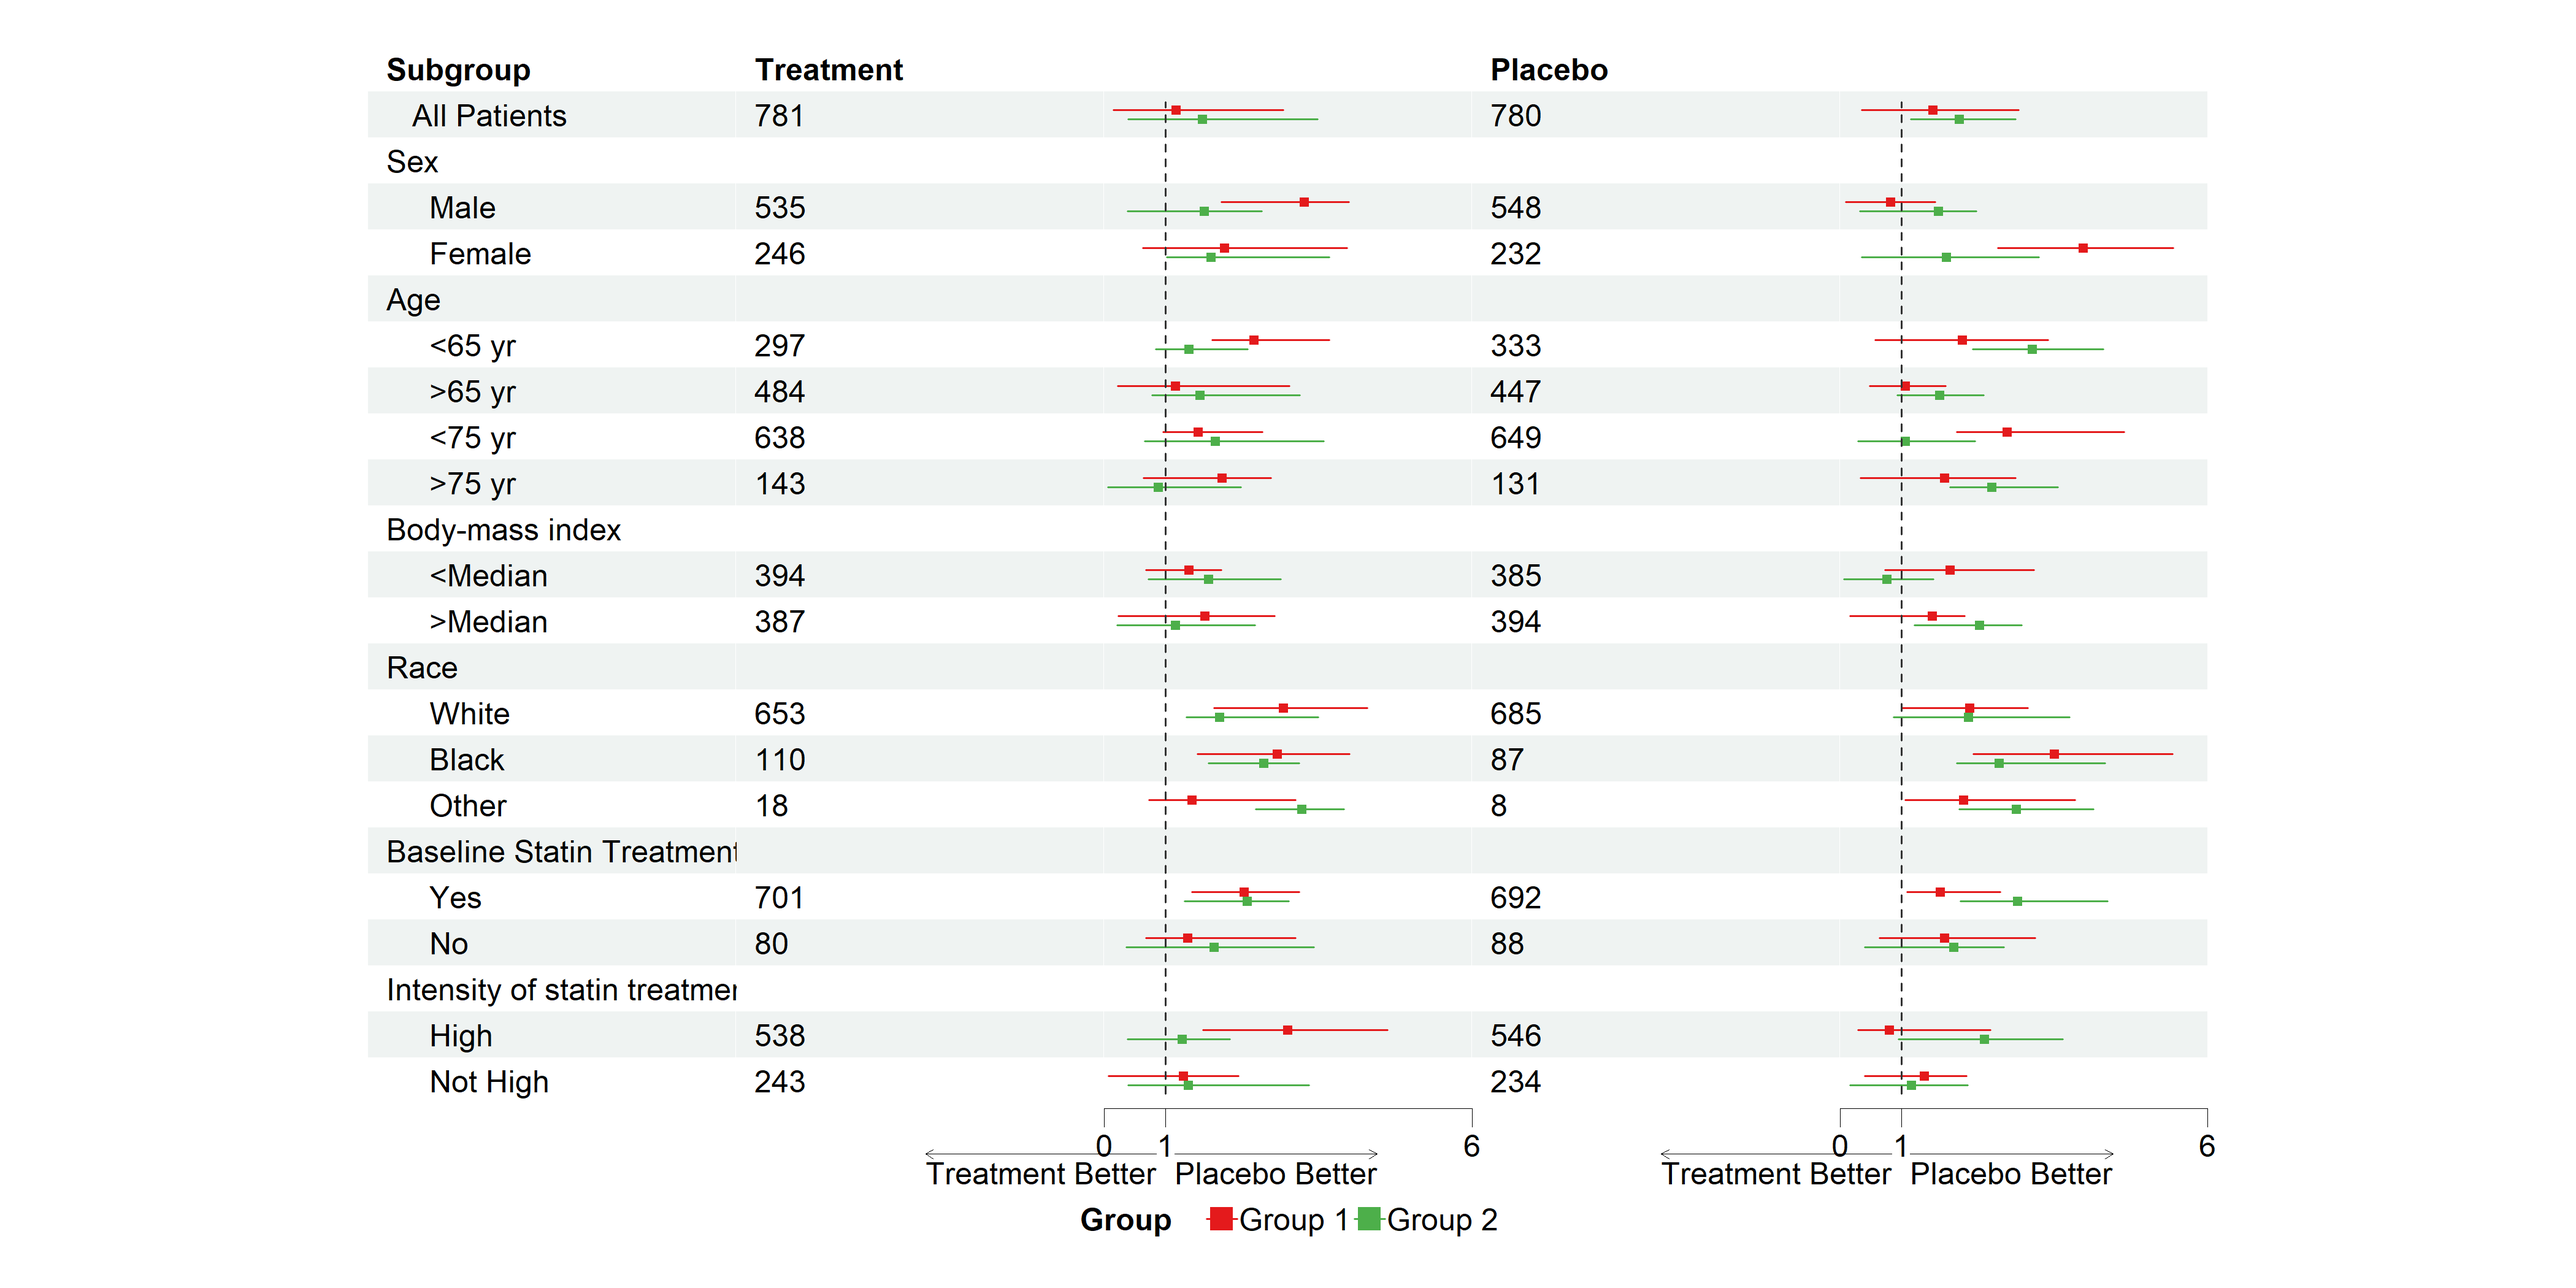
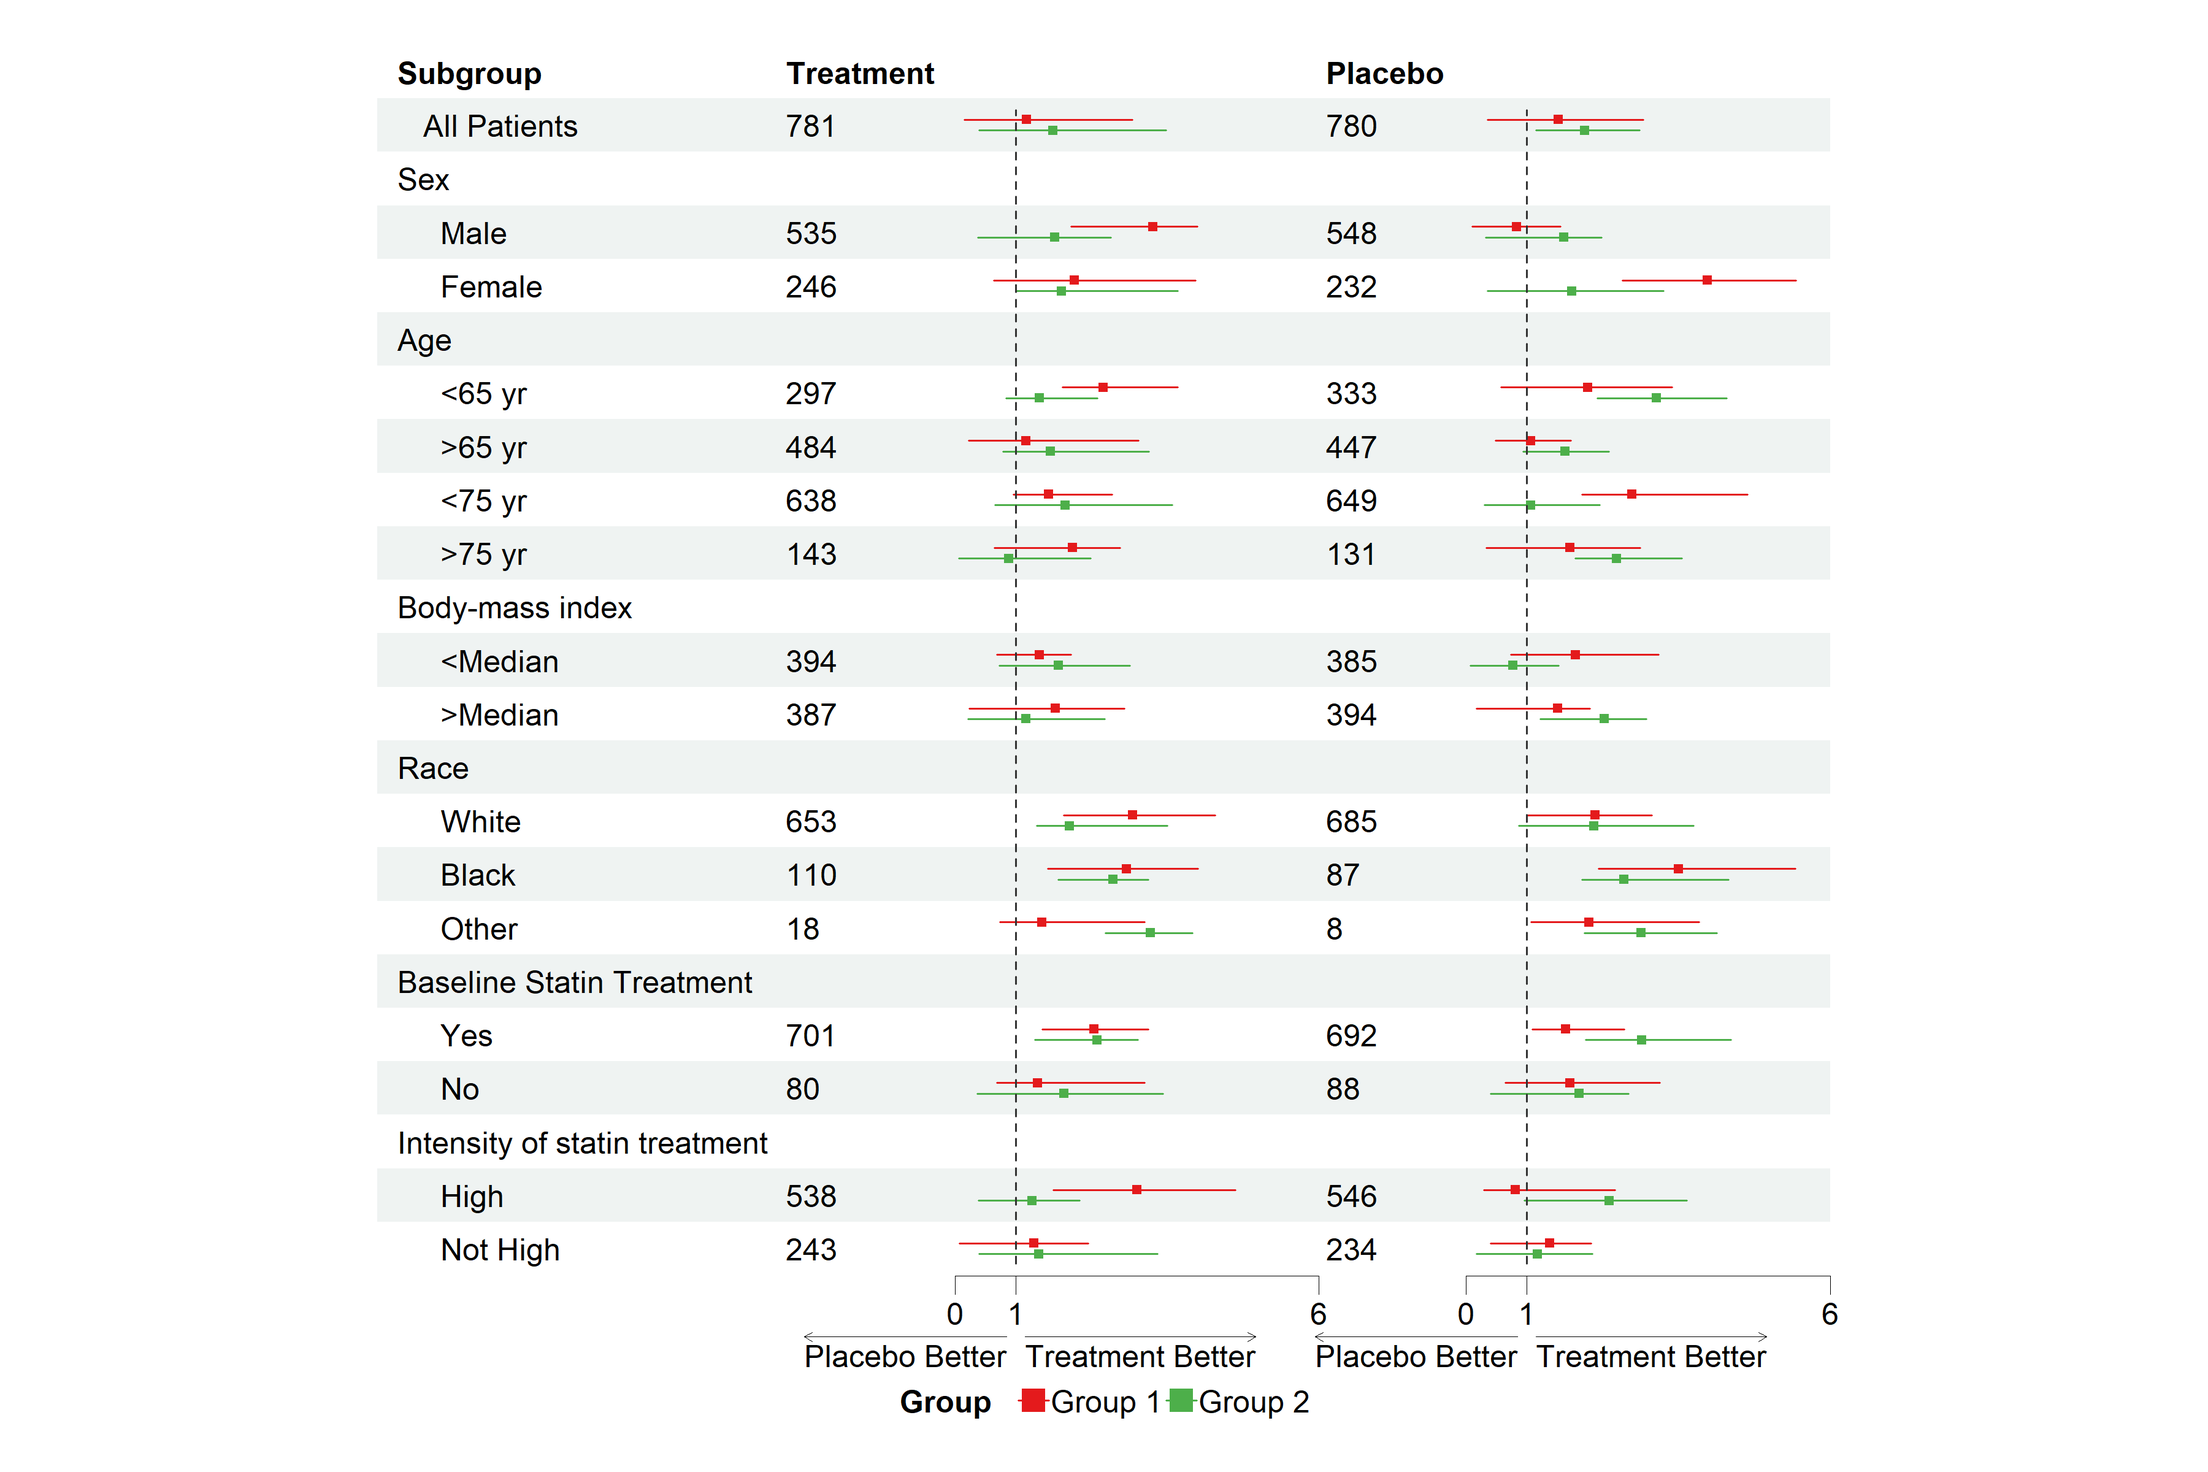
Fix legend and arrow alignment

diff --git a/README.md b/README.md
@@ -40,8 +40,9 @@ dt$Treatment <- ifelse(is.na(dt$Treatment), "", dt$Treatment)
 dt$Placebo <- ifelse(is.na(dt$Placebo), "", dt$Placebo)
 dt$se <- (log(dt$hi) - log(dt$est))/1.96
 
-# Add blank column for the forest plot to display CI
-dt$` ` <- paste(rep(" ", 5), collapse = " ")
+# Add blank column for the forest plot to display CI.
+# Adjust the column width with space. 
+dt$` ` <- paste(rep(" ", 20), collapse = " ")
 
 # Create confidence interval column to display
 dt$`HR (95% CI)` <- ifelse(is.na(dt$se), "",
@@ -59,7 +60,6 @@ p <- forest(dt[,c(1:3, 20:21)],
             sizes = dt$se,
             ci.column = 4,
             ref.line = 1,
-            ci.column.width = 2,
             arrow.lab = c("Placebo Better", "Treatment Better"),
             tick.breaks = c(0.5, 1, 2, 4),
             theme = tm)
@@ -68,7 +68,7 @@ p <- forest(dt[,c(1:3, 20:21)],
 plot(p)
 ```
 
-<img src="man/figures/README-example-1.png" width="100%" height="30%" />
+<img src="man/figures/README-example-1.png" width="100%" height="40%" />
 
 ## Complex usage
 
@@ -92,7 +92,7 @@ This is an example of multiple CI columns and groups:
 
 ``` r
 # Add blank column for the second CI column
-dt$`   ` <- paste(rep(" ", 5), collapse = " ")
+dt$`   ` <- paste(rep(" ", 20), collapse = " ")
 
 p <- forest(dt[,c(1:2, 20, 3, 22)],
             est = list(dt$est_gp1,
@@ -109,7 +109,6 @@ p <- forest(dt[,c(1:2, 20, 3, 22)],
                          dt$hi_gp4),
             ci.column = c(3, 5),
             ref.line = 1,
-            ci.column.width = 2,
             ci.color = c("Group 1" = "#e41a1c", "Group 2" = "#4daf4a"),
             legend = list(name = "Group",
                           position = "bottom"),
@@ -120,7 +119,7 @@ p <- forest(dt[,c(1:2, 20, 3, 22)],
 plot(p)
 ```
 
-<img src="man/figures/README-multiple-1.png" width="100%" height="120%" />
+<img src="man/figures/README-multiple-1.png" width="100%" height="80%" />
 
 # TODO
 
